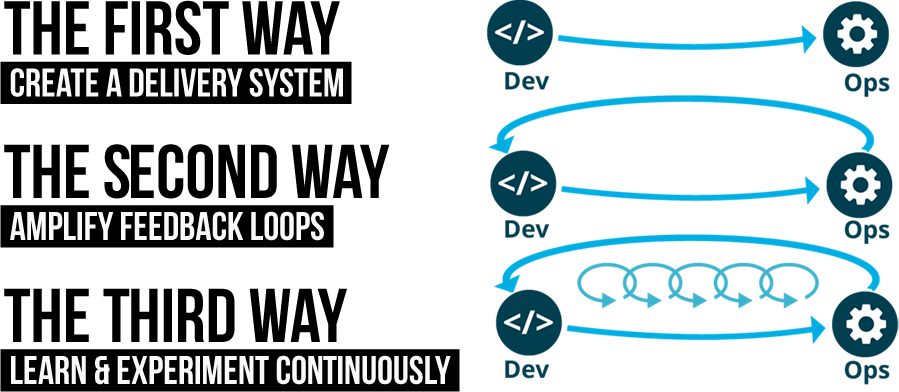
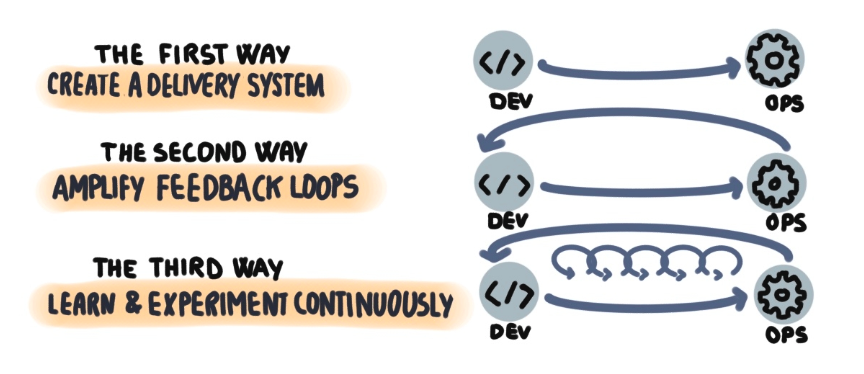
🐍 What is DevOps slides are updated 🐍

diff --git a/docs/slides/content/what-is-devops.md b/docs/slides/content/what-is-devops.md
@@ -55,7 +55,8 @@ come to mind.
 
 
 ### The Three Ways of DevOps
-#### _The First Way: Systems Thinking_
+![first-way](images/what-is-devops/first-way.png)<!-- .element: class="image-no-shadow image-full-width " -->
+
 The First Way emphasizes the performance of the entire system, as opposed to the performance of a specific silo of work or department. This can be as large as a division or as small as an individual contributor. <!-- {.element: class="medium para"} -->
 
 _The DevOps Handbook_ <!-- {.element: class="small" style="text-align: right;"} -->
@@ -63,7 +64,7 @@ _The DevOps Handbook_ <!-- {.element: class="small" style="text-align: right;"} 
 
 
 ### The Three Ways of DevOps
-#### _The Second Way: Amplify Feedback Loops_
+![second-way](images/what-is-devops/second-way.png)<!-- .element: class="image-no-shadow image-full-width " -->
 * The Second Way is about creating more frequent feedback loops.
 
 * The goal of almost any process improvement initiative is to shorten and amplify feedback loops so necessary corrections can be continually made.
@@ -78,7 +79,7 @@ _The DevOps Handbook_ <!-- {.element: class="small" style="text-align: right;"} 
 
 
 ### The Three Ways of DevOps
-#### _The Third Way: Culture of Continual Experimentation and Learning_
+![third-way](images/what-is-devops/third-way.png)<!-- .element: class="image-no-shadow image-full-width " -->
 * The Third Way is about creating a culture that fosters two things:
   * Continual experimentation, taking risks and learning from failure
   * Understanding that repetition and practice is the prerequisite to mastery
@@ -91,6 +92,11 @@ _The DevOps Handbook_ <!-- {.element: class="small" style="text-align: right;"} 
   * Introducing faults into the system to increase resilience
 
 _The DevOps Handbook_ <!-- {.element: class="small" style="text-align: right;"} -->
+
+
+
+
+![ways-of-devops](images/what-is-devops/ways-of-devops.png)<!-- .element: class="image-no-shadow image-full-width " -->
 
 
 
